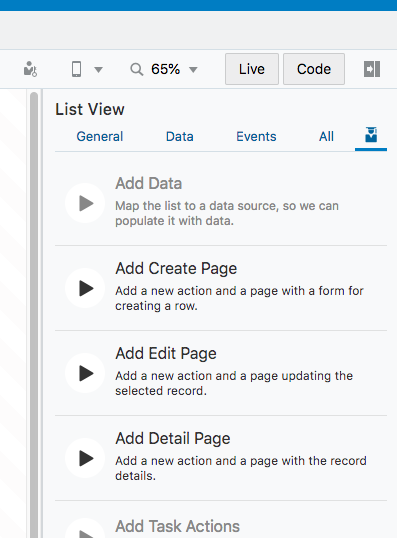
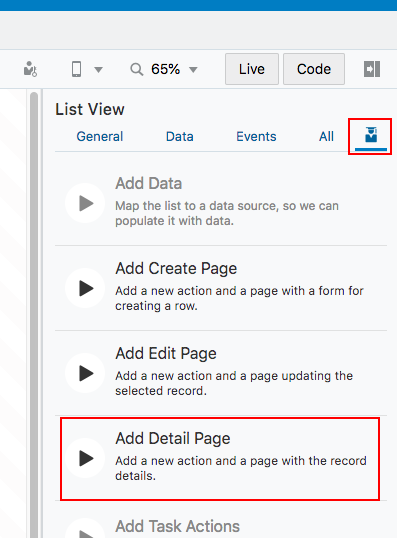
Lab 400 Q/a & image updates.

Changed region(s): [[0.1511, 0.7732, 0.9673, 0.9517], [0.8766, 0.2082, 0.9975, 0.2974]]

diff --git a/LabGuide400.md b/LabGuide400.md
@@ -2,25 +2,19 @@
 
 # Lab 400 - Incorporating REST Data into the Application
 
-Updated: July 16, 2018
-
 ## Introduction
 
-This is the fourth of several labs that are part of the **Oracle Autonomous Visual Builder Cloud Service workshop.** This lab will walk you through creating a mobile application page for viewing an inventory item's details and also incorporating REST service data into the mobile application. We will be using the mobile application here to display the REST but if you would like to use a AVBCS web application the steps are similar.
-
-**_To log issues_**, click here to go to the [github oracle](https://github.com/oracle/learning-library/issues/new) repository issue submission form.
+This lab will walk you through creating a mobile application page for viewing an inventory item's details and also incorporating REST service data into the mobile application.
 
 ## Objectives
 
 - Create a mobile page for viewing inventory item details
-- Add a REST Service Connection to the application
-- Incorporate data retrieved from Service Connection into application
+- Add a REST service connection to the application
+- Incorporate data retrieved from service connection into application
 
 ## Required Artifacts
 
-- The following lab requires an Oracle Public Cloud account that will be supplied by your instructor.
-
-- This lab assumes that you have completed the previous labs in this series and created the items covered in those labs. If you have not, download the `DemoWSApp_MobileLabImport_2.zip` file and after creating an application in VBCS(instructions found in lab 100), import the zip file provided to set up the items created in the previous labs.
+- This lab assumes that you have completed [Lab 100](LabGuide100.md), [Lab 200](LabGuide200.md), [Lab 300](LabGuide300.md).
 
 # Create Mobile Pages for Inventory Details
 
@@ -28,34 +22,53 @@ Next we'll add a page to display inventory item details and once that is complet
 
 ### Add a Inventory Details Mobile Page
 
-- To begin adding the **Details**, open the **main-start** page where we have a list of the inventory items. Open the **Page Structure** panel by clicking the icon that resembles a diagram above the component list. This will make it easy to see all the components and select the **List View** component which we will work with next.
+- Open the item1-start page by expanding the **inventorymobileapp --> flows --> item1** menu and click the **item1-start**.
 
-* After selecting the **List View** component from the **Page Structure** list you can close the **Page Structure** panel again by clicking on the icon again to regain screen space.
+![](images/LabGuide400-06c90509.png)
 
-  ![](images/400/pageStructureIcon.png)
 
-- With the **List View** component selected, open the **Quick Start** tab in the right panel and select **Add Detail Page**.
+ - Navigate and open the **Page Structure** panel. This will make it easy to see all the components and select the List View component which we will work with next.
 
-  ![](images/400/addDetailPage.png)
+![](images/400/pageStructureIcon.png)
+
+- Select the **List View** component from the **Page Structure**.
+
+![](images/LabGuide400-192fb5c5.png)
+
+- With the List View component selected, open the **Quick Start** tab in the right panel and select **Add Detail Page**.
+
+![](images/400/addDetailPage.png)
 
 - Select the GET endpoint of the Inventory Business Object and click **Next**.
 
-  ![](images/400/getInventoryEndpoint.png)
+![](images/200/LabGuide200-d85827f1.png)
 
-- On the **Page Details** step, select the following items in the order listed and then click **Finish**.
+- This will bring us to the **Page Detail** step where we can select the fields we would like to make available for creating new records. We'll select the following:
 
-  - Name
-  - Variant
-  - Inventory
-  - Reserved
+  - name
+  - quantity
+  - reserved
+  - variant
 
-    ![](images/100/detailFields.png)
+![](images/200/LabGuide200-e9c3b310.png)
 
-- We can now test the inventory item details page to see our newly created page. Click on the "Live" button in the top right corner of the development console to enable live mode and then click an item in the inventory list.
+- Then press finish.
 
-  ![](images/100/liveButton.png)
+![](images/200/LabGuide200-1be1d6be.png)
 
-- This will open our new **Inventory Detail** page and display the information from the item we have selected. You'll see that the page is already created for us including a back button that will navigate back to the overall inventory list. Exit "Live" mode by clicking the "Live" button again.
+- We can now test the inventory item details page to see our newly created page. Click on the **Live** button to enable live mode.
+
+![](images/200/liveButton.png)
+
+- Select a row from the list view on the mobile phone.
+***
+![](images/LabGuide400-41aafa64.png)
+
+- This will open our new **Inventory Detail** page and display the information from the item we have selected. You'll see that the page is already created for us including a back button that will navigate back to the overall inventory list.
+
+![](images/LabGuide400-1751443a.png)
+
+- Exit "Live" mode by clicking the "Live" button again.
 
 - Now we'll add an image to our detail page. From the component list in the left panel, drag an "Image" component onto the Inventory Detail page so that it is placed between the title bar and our "List" component. You should now have a layout with a blank image on it.
 
